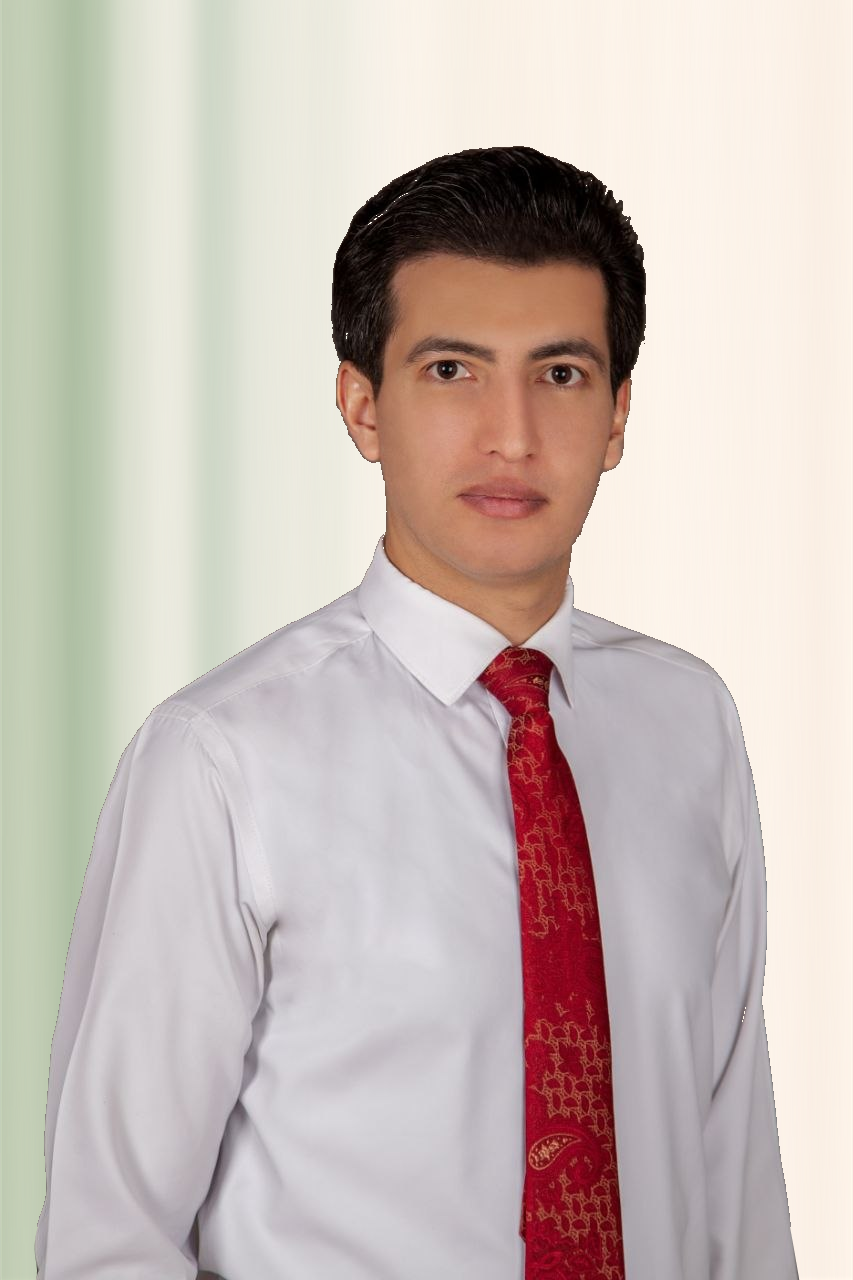
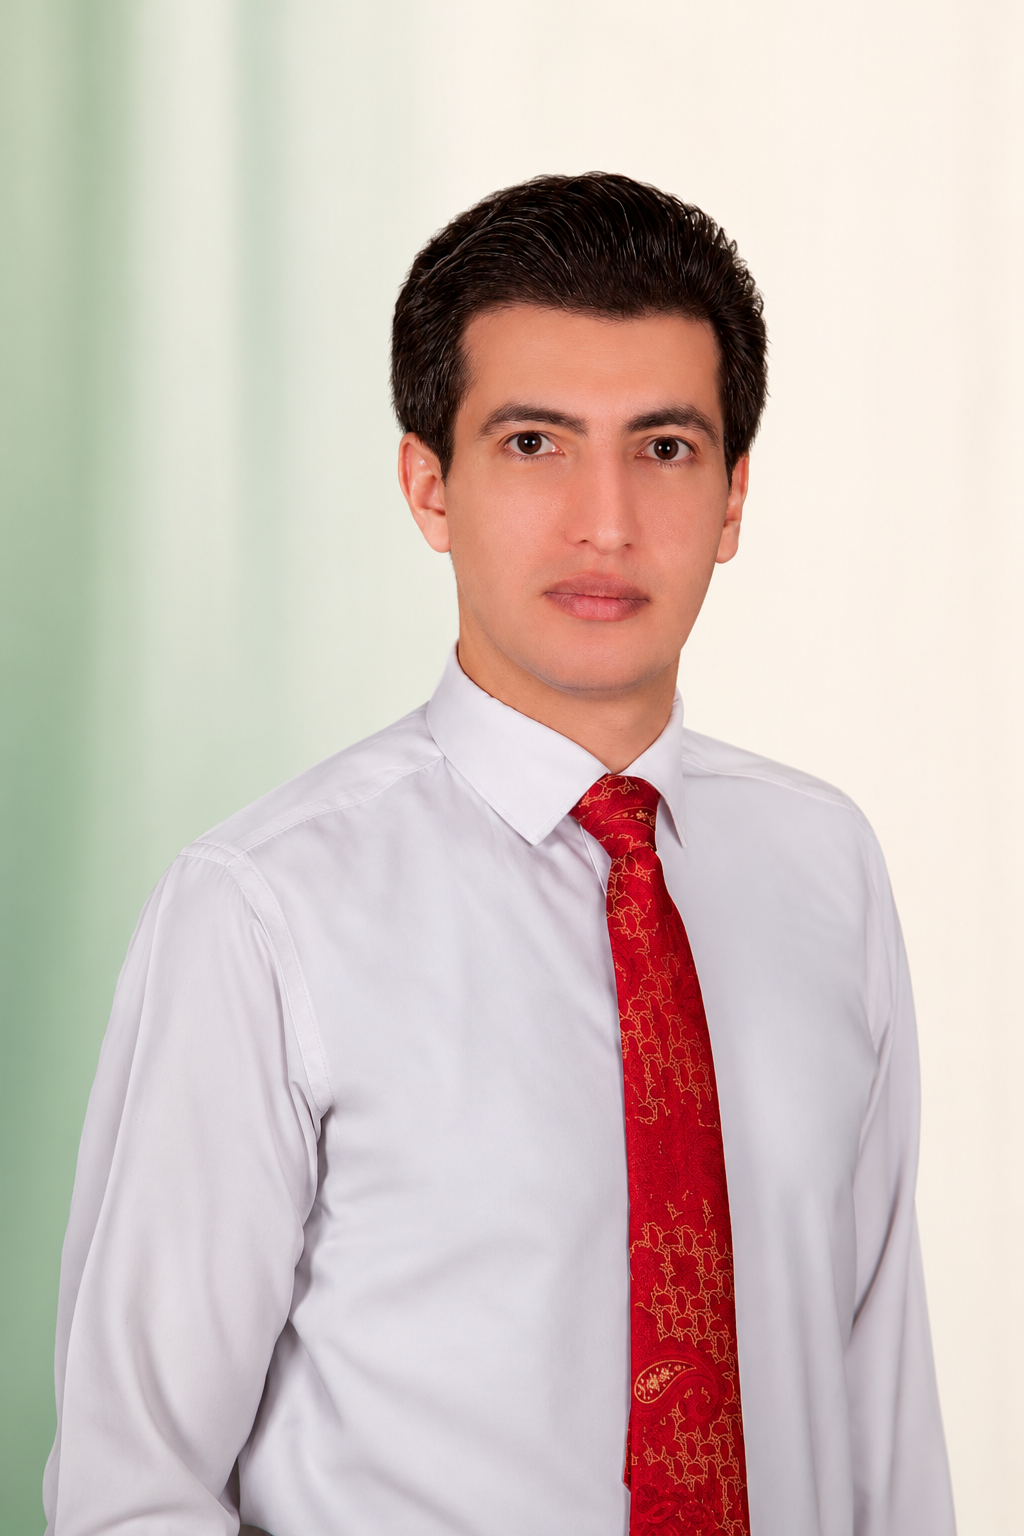
update 874

diff --git a/cpanel/includes/doctor_profile_fields.php b/cpanel/includes/doctor_profile_fields.php
@@ -393,6 +393,11 @@ function doctor_public_photo_src(array $doc): string
         return doctor_avatar_src($avatar);
     }
 
+    $defaultPhoto = doctor_panel_default_photo_path($doc);
+    if ($defaultPhoto !== '') {
+        return doctor_avatar_src($defaultPhoto);
+    }
+
     $file = match ((string) ($doc['id'] ?? '')) {
         '67830e1ded3655928961f303' => 'bahareh-rahimi-20261123.jpg',
         'a0b21a0319daa94aec53ae7a' => 'simin-asadi-20261123.jpg',
